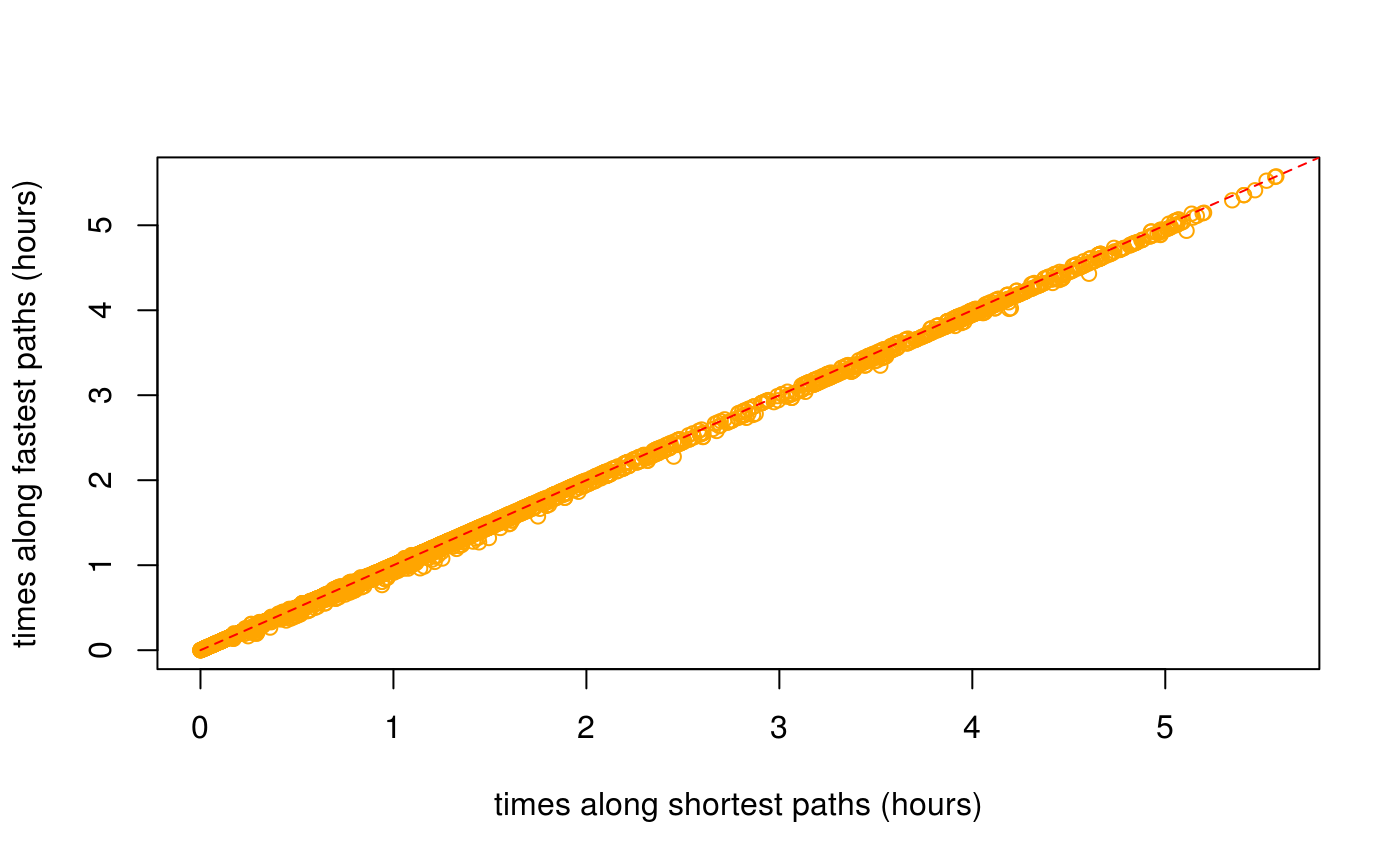
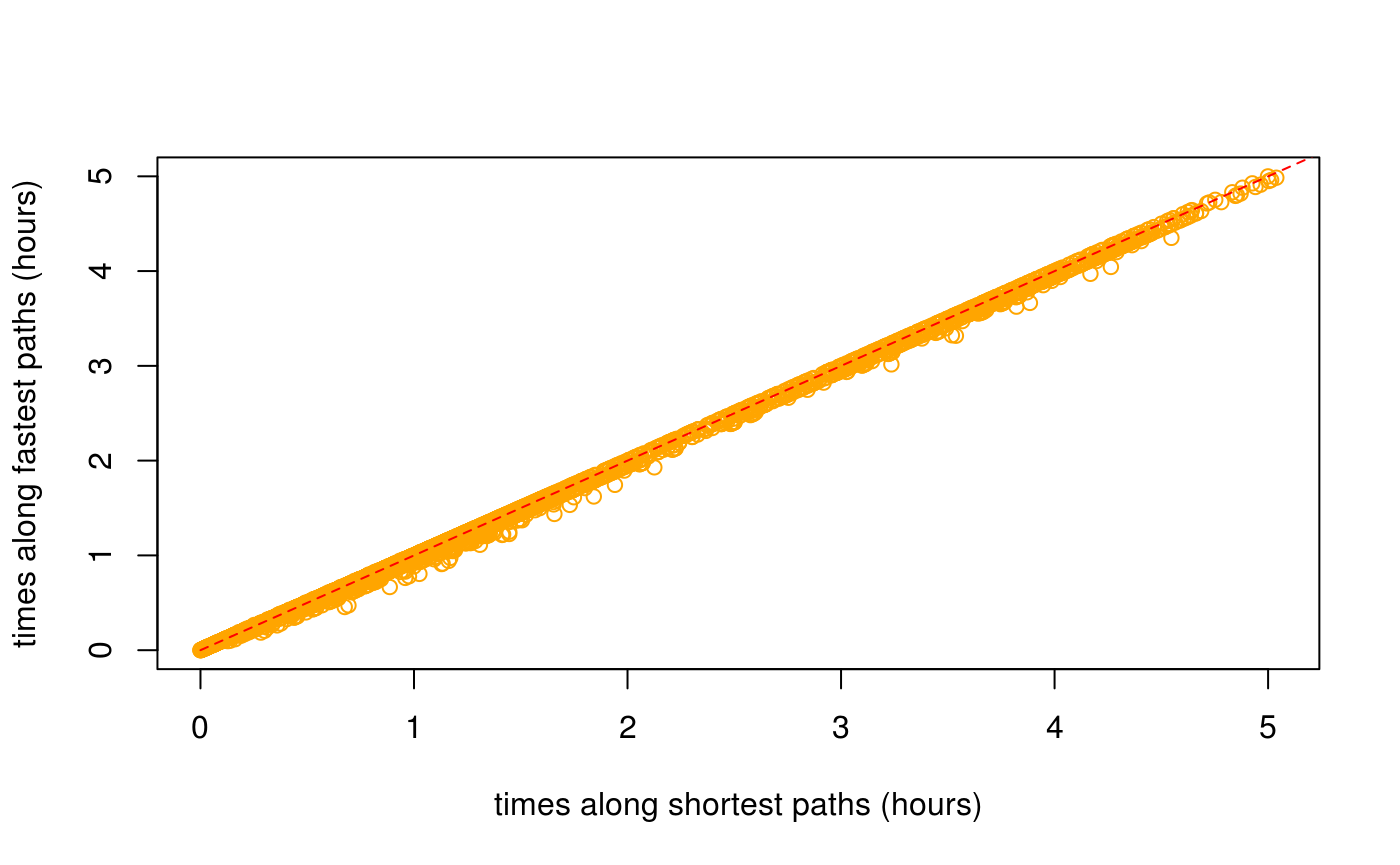
Built site for dodgr: 0.2.0.1@759fe3e

diff --git a/articles/dodgr.html b/articles/dodgr.html
@@ -343,7 +343,7 @@ Figure 2: A <strong>dual</strong>-weighted, directed graph in which the weights 
 <p>The <code>dodgr</code> packages includes a function to select a random connected portion of graph including a specified number of vertices. This function is used in the <code><a href="../reference/compare_heaps.html">compare_heaps()</a></code> function described below, but is also useful for general statistical analyses of large graphs which may otherwise take too long to compute.</p>
 <div class="sourceCode" id="cb59"><pre class="sourceCode r"><code class="sourceCode r"><a class="sourceLine" id="cb59-1" data-line-number="1">graph_sub &lt;-<span class="st"> </span><span class="kw"><a href="../reference/dodgr_sample.html">dodgr_sample</a></span> (graph, <span class="dt">nverts =</span> <span class="dv">100</span>)</a>
 <a class="sourceLine" id="cb59-2" data-line-number="2"><span class="kw"><a href="https://www.rdocumentation.org/packages/base/topics/nrow">nrow</a></span> (graph_sub)</a></code></pre></div>
-<pre><code>## [1] 217</code></pre>
+<pre><code>## [1] 197</code></pre>
 <p>The random sample has around twice as many edges as vertices, in accordance with the statistics calculated above.</p>
 <div class="sourceCode" id="cb61"><pre class="sourceCode r"><code class="sourceCode r"><a class="sourceLine" id="cb61-1" data-line-number="1"><span class="kw"><a href="https://www.rdocumentation.org/packages/base/topics/nrow">nrow</a></span> (<span class="kw"><a href="../reference/dodgr_vertices.html">dodgr_vertices</a></span> (graph_sub))</a></code></pre></div>
 <pre><code>## [1] 100</code></pre>
@@ -422,29 +422,29 @@ Figure 2: A <strong>dual</strong>-weighted, directed graph in which the weights 
 <pre><code>##                                                                                   test
 ## 12                  d &lt;- igraph::distances(igr, v = from_id, to = to_id, mode = "out")
 ## 6       d &lt;- dodgr_dists(graph_contracted, from = from_id, to = to_id, heap = "BHeap")
+## 8     d &lt;- dodgr_dists(graph_contracted, from = from_id, to = to_id, heap = "TriHeap")
 ## 9  d &lt;- dodgr_dists(graph_contracted, from = from_id, to = to_id, heap = "TriHeapExt")
+## 10     d &lt;- dodgr_dists(graph_contracted, from = from_id, to = to_id, heap = "Heap23")
 ## 11        d &lt;- dodgr_dists(graph_contracted, from = from_id, to = to_id, heap = "set")
+## 4             d &lt;- dodgr_dists(graph, from = from_id, to = to_id, heap = "TriHeapExt")
 ## 5                 d &lt;- dodgr_dists(graph, from = from_id, to = to_id, heap = "Heap23")
 ## 7       d &lt;- dodgr_dists(graph_contracted, from = from_id, to = to_id, heap = "FHeap")
-## 8     d &lt;- dodgr_dists(graph_contracted, from = from_id, to = to_id, heap = "TriHeap")
-## 10     d &lt;- dodgr_dists(graph_contracted, from = from_id, to = to_id, heap = "Heap23")
-## 4             d &lt;- dodgr_dists(graph, from = from_id, to = to_id, heap = "TriHeapExt")
-## 1                  d &lt;- dodgr_dists(graph, from = from_id, to = to_id, heap = "BHeap")
 ## 2                  d &lt;- dodgr_dists(graph, from = from_id, to = to_id, heap = "FHeap")
 ## 3                d &lt;- dodgr_dists(graph, from = from_id, to = to_id, heap = "TriHeap")
+## 1                  d &lt;- dodgr_dists(graph, from = from_id, to = to_id, heap = "BHeap")
 ##    replications elapsed relative user.self sys.self user.child sys.child
-## 12            1   0.001        1     0.004        0          0         0
-## 6             1   0.002        2     0.004        0          0         0
-## 9             1   0.002        2     0.000        0          0         0
-## 11            1   0.002        2     0.004        0          0         0
-## 5             1   0.003        3     0.004        0          0         0
-## 7             1   0.003        3     0.000        0          0         0
-## 8             1   0.003        3     0.000        0          0         0
-## 10            1   0.003        3     0.000        0          0         0
-## 4             1   0.004        4     0.004        0          0         0
-## 1             1   0.005        5     0.008        0          0         0
-## 2             1   0.005        5     0.004        0          0         0
-## 3             1   0.005        5     0.008        0          0         0</code></pre>
+## 12            1   0.002      1.0     0.000        0          0         0
+## 6             1   0.003      1.5     0.004        0          0         0
+## 8             1   0.003      1.5     0.004        0          0         0
+## 9             1   0.003      1.5     0.000        0          0         0
+## 10            1   0.003      1.5     0.004        0          0         0
+## 11            1   0.003      1.5     0.004        0          0         0
+## 4             1   0.004      2.0     0.004        0          0         0
+## 5             1   0.004      2.0     0.004        0          0         0
+## 7             1   0.004      2.0     0.004        0          0         0
+## 2             1   0.006      3.0     0.004        0          0         0
+## 3             1   0.006      3.0     0.008        0          0         0
+## 1             1   0.007      3.5     0.004        0          0         0</code></pre>
 <p>The key column of that <code>data.frame</code> is <code>relative</code>, which quantifies the relative performance of each test in relation to the best which is given a score of 1. <code>dodgr</code> using the default <code>heap = "BHeap"</code>, which is a binary heap priority queue, performs faster than <code>igraph</code> <span class="citation">(Csardi and Nepusz 2006)</span> for these graphs. Different kind of graphs will perform differently with different priority queue structures, and this function enables users to empirically discern the optimal heap for their kind of graph.</p>
 <p>Note, however, that this is not an entirely fair comparison, because <code>dodgr</code> calculates dual-weighted distances, whereas <code>igraph</code>—and indeed all other <strong>R</strong> packages—only directly calculate distances based on a single set of weights. Implementing dual-weighted routing in these cases requires explicitly re-tracing all paths and summing the second set of weights along each path. A time comparison in that case would be very strongly in favour of <code>dodgr</code>. Moreover, <code>dodgr</code> can convert graphs to contracted form through removing redundant vertices, as detailed in the following section. Doing so greatly improves performance with respect to <code>igraph</code>.</p>
 <p>For those wishing to do explicit comparisons themselves, the following code generates the <code>igraph</code> equivalent of <code><a href="../reference/dodgr_dists.html">dodgr_dists()</a></code>, although of course for single-weighted graphs only:</p>
@@ -497,11 +497,11 @@ Figure 3: <strong>(A)</strong> Vertex#2 is redundant for routing calculations fr
 <pre><code>## [1] 672</code></pre>
 <div class="sourceCode" id="cb89"><pre class="sourceCode r"><code class="sourceCode r"><a class="sourceLine" id="cb89-1" data-line-number="1">verts &lt;-<span class="st"> </span><span class="kw"><a href="https://www.rdocumentation.org/packages/base/topics/sample">sample</a></span> (<span class="kw"><a href="../reference/dodgr_vertices.html">dodgr_vertices</a></span> (graph)<span class="op">$</span>id, <span class="dt">size =</span> <span class="dv">100</span>)</a>
 <a class="sourceLine" id="cb89-2" data-line-number="2"><span class="kw"><a href="https://www.rdocumentation.org/packages/utils/topics/head">head</a></span> (verts) <span class="co"># a character vector</span></a></code></pre></div>
-<pre><code>## [1] "2627469078" "2588155767" "339574153"  "2627476984" "338907906" 
-## [6] "2398957724"</code></pre>
+<pre><code>## [1] "2627480728" "5974426275" "2588155708" "2588146052" "3921523909"
+## [6] "6161853509"</code></pre>
 <div class="sourceCode" id="cb91"><pre class="sourceCode r"><code class="sourceCode r"><a class="sourceLine" id="cb91-1" data-line-number="1">grc &lt;-<span class="st"> </span><span class="kw"><a href="../reference/dodgr_contract_graph.html">dodgr_contract_graph</a></span> (graph, verts)</a>
 <a class="sourceLine" id="cb91-2" data-line-number="2"><span class="kw"><a href="https://www.rdocumentation.org/packages/base/topics/nrow">nrow</a></span> (grc)</a></code></pre></div>
-<pre><code>## [1] 848</code></pre>
+<pre><code>## [1] 850</code></pre>
 <p>Retaining the nominated vertices yields a graph with considerably more edges than the fully contracted graph excluding these vertices. The <code><a href="../reference/dodgr_dists.html">dodgr_dists()</a></code> function can be applied to the latter graph to obtain accurate distances precisely routed between these points, yet using the speed advantages of graph contraction.</p>
 </div>
 </div>
@@ -542,53 +542,84 @@ Figure 3: <strong>(A)</strong> Vertex#2 is redundant for routing calculations fr
 <pre><code>## [1] 10</code></pre>
 <p>The result (<code>dp</code>) is a list of 10 items, each of which contains 5 vectors. An example is,</p>
 <div class="sourceCode" id="cb98"><pre class="sourceCode r"><code class="sourceCode r"><a class="sourceLine" id="cb98-1" data-line-number="1">dp [[<span class="dv">1</span>]] [[<span class="dv">1</span>]]</a></code></pre></div>
-<pre><code>##   [1] "1161117288" "1691495910" "1691495985" "677638817"  "1161117652"
-##   [6] "1161117586" "1691495982" "1161117526" "1691495952" "1691495943"
-##  [11] "1161117392" "1691495939" "1161117756" "1691495934" "1161117440"
-##  [16] "1376769146" "1161117501" "1691495929" "1161117383" "1691496079"
-##  [21] "1161117679" "677638820"  "1691496070" "1161117278" "1691496072"
-##  [26] "1691496075" "1128374463" "1161117327" "2398958044" "2398958043"
-##  [31] "2398958041" "2398958040" "677638818"  "6433630456" "1161117434"
-##  [36] "2398958010" "2398958005" "1128374490" "2398957968" "1161117636"
-##  [41] "2398957939" "1376768724" "677638819"  "1376768355" "1128374455"
-##  [46] "1376768842" "2398957896" "2398957895" "1128374434" "1376768821"
-##  [51] "677638770"  "1376768479" "1376769040" "2398957837" "2398957826"
-##  [56] "1128374394" "2398957816" "1376768691" "977461235"  "1128374418"
-##  [61] "1376768409" "1376768986" "245631194"  "1376768627" "1128374362"
-##  [66] "676875279"  "1357430213" "1161117548" "1128374360" "1376769220"
-##  [71] "1376768749" "1357430014" "1376768380" "676875276"  "1376768957"
-##  [76] "1357430113" "1376768597" "1376768325" "1161117723" "1376768899"
-##  [81] "1161117735" "1376768537" "676875308"  "1376769132" "1128374447"
-##  [86] "1376768650" "1376768293" "676875274"  "1376768867" "1161117304"
-##  [91] "1376768504" "1128374467" "1128374373" "6161027522" "1128374412"
-##  [96] "1376769190" "1128374442" "676875269"  "245631169"  "1376768805"
-## [101] "2398957722" "313796425"  "2398957720" "1376769010" "2398957713"
-## [106] "1376768565" "2398957701" "2398957696" "1128374495" "313796426" 
-## [111] "1128374399" "313796427"  "313796428"  "2398957603" "313796429" 
-## [116] "1427594112" "1376769158" "313796430"  "313796431"  "2398957567"
-## [121] "2398957563" "3338186986" "313796432"  "2398957555" "2398957554"
-## [126] "1376768773" "313796433"  "2419196948" "2398957539" "676875267" 
-## [131] "2398957521" "2398957526" "2398957532" "2398957537" "676635860" 
-## [136] "2398957542" "2398957543" "2398957544" "2398957546" "338905245" 
-## [141] "2398957549" "2398957557" "2398957561" "338905227"  "2398957564"
-## [146] "338905221"  "2398957568" "2398957570" "2398957571" "1427594104"
-## [151] "2398957576" "338905220"  "2398957584" "1376769086" "1376768510"
-## [156] "2398957588" "2398957589" "338905219"  "1376768779" "1376769164"
-## [161] "338905128"  "1427115955" "339574628"  "2398957619" "339574629" 
-## [166] "339574630"  "2398957639" "2398957654" "1148814809" "2717241324"
-## [171] "339574631"  "2398957686" "3818714155" "339574819"  "339574820" 
-## [176] "3818714154" "6228103645"</code></pre>
+<pre><code>##   [1] "677638827"  "1691496416" "677638828"  "1691496412" "1161117556"
+##   [6] "1691496409" "677638825"  "1691496407" "1691496375" "1691496404"
+##  [11] "1691496406" "1691496372" "1691495745" "1691496367" "677638829" 
+##  [16] "1161117413" "1161117358" "1161117772" "1691496364" "1691496190"
+##  [21] "677638821"  "1691496086" "1161117473" "1161117620" "1691496081"
+##  [26] "676875383"  "1691495727" "677638822"  "677638823"  "1691495723"
+##  [31] "1691495720" "1691495717" "1161117349" "1691495698" "245631502" 
+##  [36] "1691495696" "1161117543" "1691495693" "1691495680" "1691495677"
+##  [41] "1161117452" "1691495672" "1161117302" "1691495665" "1691495937"
+##  [46] "1161117663" "1691496251" "1691496243" "1161117704" "1691496247"
+##  [51] "1691496237" "1161117404" "1691496236" "1691496204" "1161117288"
+##  [56] "1691495910" "1691495985" "677638817"  "1161117652" "1161117586"
+##  [61] "1691495982" "1161117526" "1691495952" "1691495943" "1161117392"
+##  [66] "1691495939" "1161117756" "1691495934" "1161117440" "1376769146"
+##  [71] "1161117501" "1691495929" "1161117383" "1691496079" "1161117679"
+##  [76] "677638820"  "1691496070" "1161117278" "1691496072" "1691496075"
+##  [81] "1128374463" "1161117327" "2398958044" "2398958043" "2398958041"
+##  [86] "2398958040" "677638818"  "6433630456" "1161117434" "2398958010"
+##  [91] "2398958005" "1128374490" "2398957968" "1161117636" "2398957939"
+##  [96] "1376768724" "677638819"  "1376768355" "1128374455" "1376768842"
+## [101] "2398957896" "2398957895" "1128374434" "1376768821" "677638770" 
+## [106] "1376768479" "1376769040" "2398957837" "2398957826" "1128374394"
+## [111] "2398957816" "1376768691" "977461235"  "1128374418" "1376768409"
+## [116] "1376768986" "245631194"  "1376768627" "1128374362" "676875279" 
+## [121] "1357430213" "1161117548" "1128374360" "1376769220" "1376768749"
+## [126] "1357430014" "1376768380" "676875276"  "1376768957" "1357430113"
+## [131] "1376768597" "1376768325" "1161117723" "1376768899" "1161117735"
+## [136] "1376768537" "676875308"  "1376769132" "1128374447" "1376768650"
+## [141] "1376768293" "676875274"  "1376768867" "1161117304" "1376768504"
+## [146] "1128374467" "1128374373" "6161027522" "1128374412" "1376769190"
+## [151] "1128374442" "676875269"  "245631169"  "1376768805" "2398957722"
+## [156] "313796425"  "2398957720" "1376769010" "2398957713" "1376768565"
+## [161] "2398957701" "2398957696" "1128374495" "313796426"  "1128374399"
+## [166] "313796427"  "313796428"  "2398957603" "313796429"  "1427594112"
+## [171] "1376769158" "313796430"  "313796431"  "2398957567" "2398957563"
+## [176] "3338186986" "313796432"  "2398957555" "2398957554" "1376768773"
+## [181] "313796433"  "2419196948" "2398957539" "676875267"  "2398957521"
+## [186] "2398957526" "2398957532" "2398957537" "676635860"  "2398957542"
+## [191] "2398957543" "2398957544" "2398957546" "338905245"  "2398957549"
+## [196] "2398957557" "2398957561" "338905227"  "2398957564" "338905221" 
+## [201] "2398957568" "2398957570" "2398957571" "1427594104" "2398957576"
+## [206] "338905220"  "2398957584" "1376769086" "1376768510" "2398957588"
+## [211] "2398957589" "338905219"  "1376768779" "1376769164" "338905128" 
+## [216] "2398957593" "1376768571" "2398957595" "338905105"  "338905103" 
+## [221] "338905101"  "2398957611" "1427115973" "2398957612" "2398957616"
+## [226] "338905098"  "2398957623" "338905039"  "2398957626" "1427115977"
+## [231] "338905037"  "2398957627" "1427115981" "2398957629" "1427115983"
+## [236] "338905036"  "1148814692" "2398957641" "2398957665" "676875127" 
+## [241] "2398957674" "2398957680" "338905033"  "1148814852" "1148815109"
+## [246] "339577292"  "338905032"  "1376768330" "1376768904" "2398957715"
+## [251] "2398957716" "1376768543" "1376769137" "1376768847" "1376768484"
+## [256] "1376769045" "4506481428" "1376768697" "1376769196" "6414886574"
+## [261] "1376768817" "1376768447" "6414886575" "1376769017" "6414886576"
+## [266] "1376768754" "6414886577" "1376768386" "1376768961" "6414886578"
+## [271] "1376768601" "5351820954" "1376769087" "5974503432" "1376768725"
+## [276] "5351820955" "1376768356" "5974503433" "5351820956" "5974503434"
+## [281] "1376768931" "5974503435" "1376768660" "1376768299" "1376768873"
+## [286] "5974503436" "1376768511" "5974503437" "2398957668" "2398957682"
+## [291] "1427116026" "2398957694" "2398957702" "2398957704" "338512648" 
+## [296] "2398957707" "2398957710" "2398957712" "2398957714" "2398957724"
+## [301] "676635816"  "2398957727" "2398957730" "2398957733" "286632882" 
+## [306] "2398957736" "1390214413" "2398957740" "286632883"  "2398957746"
+## [311] "2398957747" "2588146032" "2588146091" "2588146120" "2588146042"
+## [316] "2588146050" "2588146081" "2588146089" "2588146101" "2588146103"
+## [321] "2588146098" "2588146125" "2588146020" "2588146127" "2588146068"
+## [326] "5351820916" "5351820918" "5351820917" "2588146079" "2588146028"
+## [331] "2588146077" "2588146096" "2588146109" "2588146070" "2588146136"</code></pre>
 <p>For spatial graphs, the coordinates of these paths can be obtained by extracting the vertices with <code><a href="../reference/dodgr_vertices.html">dodgr_vertices()</a></code> and matching the vertex IDs:</p>
 <div class="sourceCode" id="cb100"><pre class="sourceCode r"><code class="sourceCode r"><a class="sourceLine" id="cb100-1" data-line-number="1">verts &lt;-<span class="st"> </span><span class="kw"><a href="../reference/dodgr_vertices.html">dodgr_vertices</a></span> (graph)</a>
 <a class="sourceLine" id="cb100-2" data-line-number="2">path1 &lt;-<span class="st"> </span>verts [<span class="kw"><a href="https://www.rdocumentation.org/packages/base/topics/match">match</a></span> (dp [[<span class="dv">1</span>]] [[<span class="dv">1</span>]], verts<span class="op">$</span>id), ]</a>
 <a class="sourceLine" id="cb100-3" data-line-number="3"><span class="kw"><a href="https://www.rdocumentation.org/packages/utils/topics/head">head</a></span> (path1)</a></code></pre></div>
-<pre><code>##             id        x        y component   n
-## 954 1161117288 76.53647 15.35966         1 489
-## 952 1691495910 76.53651 15.35948         1 488
-## 950 1691495985 76.53648 15.35923         1 487
-## 948  677638817 76.53564 15.35450         1 486
-## 946 1161117652 76.53545 15.35413         1 485
-## 944 1161117586 76.53436 15.35328         1 484</code></pre>
+<pre><code>##              id        x        y component   n
+## 1062  677638827 76.56849 15.37158         1 543
+## 1060 1691496416 76.56687 15.37020         1 542
+## 1058  677638828 76.56654 15.37002         1 541
+## 1056 1691496412 76.56625 15.36997         1 540
+## 1054 1161117556 76.56413 15.36961         1 539
+## 1052 1691496409 76.56219 15.36903         1 538</code></pre>
 <p>Paths calculated on contracted graphs will of course have fewer vertices than those calculated on full graphs.</p>
 </div>
 <div id="aggregated-flows" class="section level1">
@@ -632,7 +663,7 @@ Figure 3: <strong>(A)</strong> Vertex#2 is redundant for routing calculations fr
 <p>Most flows are zero because they have only been calculated between very few points in the graph.</p>
 <div class="sourceCode" id="cb105"><pre class="sourceCode r"><code class="sourceCode r"><a class="sourceLine" id="cb105-1" data-line-number="1"><span class="kw"><a href="https://www.rdocumentation.org/packages/base/topics/summary">summary</a></span> (graph_f<span class="op">$</span>flow)</a></code></pre></div>
 <pre><code>##    Min. 1st Qu.  Median    Mean 3rd Qu.    Max. 
-##   0.000   0.000   0.000   6.596   0.000  76.794</code></pre>
+##   0.000   0.000   0.000   6.784   0.000 125.435</code></pre>
 </div>
 <div id="flow-dispersal" class="section level2">
 <h2 class="hasAnchor">
@@ -642,7 +673,7 @@ Figure 3: <strong>(A)</strong> Vertex#2 is redundant for routing calculations fr
 <a class="sourceLine" id="cb107-2" data-line-number="2">graph_f &lt;-<span class="st"> </span><span class="kw"><a href="../reference/dodgr_flows_disperse.html">dodgr_flows_disperse</a></span> (graph, <span class="dt">from =</span> from, <span class="dt">dens =</span> dens)</a>
 <a class="sourceLine" id="cb107-3" data-line-number="3"><span class="kw"><a href="https://www.rdocumentation.org/packages/base/topics/summary">summary</a></span> (graph_f<span class="op">$</span>flow)</a></code></pre></div>
 <pre><code>##      Min.   1st Qu.    Median      Mean   3rd Qu.      Max. 
-## 0.000e+00 0.000e+00 0.000e+00 1.962e-05 0.000e+00 6.476e-02</code></pre>
+## 0.000e+00 0.000e+00 0.000e+00 4.593e-06 0.000e+00 8.736e-03</code></pre>
 </div>
 <div id="merging-directed-flows" class="section level2">
 <h2 class="hasAnchor">
@@ -652,7 +683,7 @@ Figure 3: <strong>(A)</strong> Vertex#2 is redundant for routing calculations fr
 <p>Resultant graphs produced by <code><a href="../reference/merge_directed_flows.html">merge_directed_flows()</a></code> only include those edges having non-zero flows, and so:</p>
 <div class="sourceCode" id="cb110"><pre class="sourceCode r"><code class="sourceCode r"><a class="sourceLine" id="cb110-1" data-line-number="1"><span class="kw"><a href="https://www.rdocumentation.org/packages/base/topics/nrow">nrow</a></span> (graph_f); <span class="kw"><a href="https://www.rdocumentation.org/packages/base/topics/nrow">nrow</a></span> (graph_undir) <span class="co"># the latter is much smaller</span></a></code></pre></div>
 <pre><code>## [1] 5973</code></pre>
-<pre><code>## [1] 1577</code></pre>
+<pre><code>## [1] 1526</code></pre>
 <p>The resultant graph can readily be merged with the original graph to regain the original data on vertex coordinates through</p>
 <div class="sourceCode" id="cb113"><pre class="sourceCode r"><code class="sourceCode r"><a class="sourceLine" id="cb113-1" data-line-number="1">graph &lt;-<span class="st"> </span>graph [graph_undir<span class="op">$</span>edge_id, ]</a>
 <a class="sourceLine" id="cb113-2" data-line-number="2">graph<span class="op">$</span>flow &lt;-<span class="st"> </span>graph_undir<span class="op">$</span>flow</a></code></pre></div>

diff --git a/articles/times.html b/articles/times.html
@@ -227,11 +227,11 @@ Figure 1: Graph modification to account for turn penalties, which introduces the
 <p><img src="times_files/figure-html/shortest-vs-fastest-1.png" width="700"></p>
 <p>The average distance between the two (in metres) is:</p>
 <div class="sourceCode" id="cb9"><pre class="sourceCode r"><code class="sourceCode r"><a class="sourceLine" id="cb9-1" data-line-number="1"><span class="kw"><a href="https://www.rdocumentation.org/packages/base/topics/mean">mean</a></span> (<span class="kw"><a href="https://www.rdocumentation.org/packages/base/topics/MathFun">abs</a></span> (d_time <span class="op">-</span><span class="st"> </span>d_dist), <span class="dt">na.rm =</span> <span class="ot">TRUE</span>)</a></code></pre></div>
-<pre><code>## [1] 44.98134</code></pre>
+<pre><code>## [1] 50.79222</code></pre>
 <p>The plot reveals that shortest distances are indeed somewhat shorter than distances along fastest paths, but also that some fastest paths are actually shorter than shortest paths:</p>
 <div class="sourceCode" id="cb11"><pre class="sourceCode r"><code class="sourceCode r"><a class="sourceLine" id="cb11-1" data-line-number="1">index &lt;-<span class="st"> </span><span class="kw"><a href="https://www.rdocumentation.org/packages/base/topics/which">which</a></span> (<span class="op">!</span><span class="kw"><a href="https://www.rdocumentation.org/packages/base/topics/NA">is.na</a></span> (d_time) <span class="op">&amp;</span><span class="st"> </span><span class="op">!</span><span class="kw"><a href="https://www.rdocumentation.org/packages/base/topics/NA">is.na</a></span> (d_dist))</a>
 <a class="sourceLine" id="cb11-2" data-line-number="2"><span class="kw"><a href="https://www.rdocumentation.org/packages/base/topics/length">length</a></span> (<span class="kw"><a href="https://www.rdocumentation.org/packages/base/topics/which">which</a></span> (d_time [index] <span class="op">&lt;</span><span class="st"> </span>d_dist [index])) <span class="op">/</span><span class="st"> </span><span class="kw"><a href="https://www.rdocumentation.org/packages/base/topics/length">length</a></span> (index)</a></code></pre></div>
-<pre><code>## [1] 0.01536156</code></pre>
+<pre><code>## [1] 0.02190722</code></pre>
 <p>While <code>dodgr</code> and indeed all routing engines attempt to maximally reconcile differences between fastest and shortest routes, there nevertheless remain important discrepancies. Foremost among these, and the primary reason why some fastest routes may in fact be shorter than shortest routes, is that fastest routes allocate preferences for different kinds of way based both on the <code>value</code> column in the <code>weighting_profiles$weighting_profiles</code> table illustrated above, and on the actual maximum speed of a given edge, which itself may be a combination of maximum speeds as specified in OSM itself, maximum speeds from the <code>weighting_profiles$weighting_profiles</code> table, or values specific to a given surface. The result is that some unique combination of maximum speeds along a network may lead to <em>fastest</em> routes being preferentially directed along a path that is actually shorter than the direct shortest path which is calculated independent of maximum speed values.</p>
 <p>Such discrepancies are important in understanding differences in routes <em>times</em> calculated along shortest versus fastest paths. These times can be calculated (in seconds) with the <a href="https://atfutures.github.io/dodgr/reference/dodgr_times.html"><code><a href="../reference/dodgr_times.html">dodgr_times()</a></code></a> function:</p>
 <div class="sourceCode" id="cb13"><pre class="sourceCode r"><code class="sourceCode r"><a class="sourceLine" id="cb13-1" data-line-number="1">t_dist &lt;-<span class="st"> </span><span class="kw"><a href="../reference/dodgr_times.html">dodgr_times</a></span> (graph, <span class="dt">from =</span> from, <span class="dt">to =</span> to, <span class="dt">shortest =</span> <span class="ot">TRUE</span>) <span class="co"># default</span></a>
@@ -242,11 +242,11 @@ Figure 1: Graph modification to account for turn penalties, which introduces the
 <a class="sourceLine" id="cb13-6" data-line-number="6"><span class="kw"><a href="https://www.rdocumentation.org/packages/graphics/topics/lines">lines</a></span> (<span class="dv">0</span><span class="op">:</span><span class="dv">100</span>, <span class="dv">0</span><span class="op">:</span><span class="dv">100</span>, <span class="dt">col =</span> <span class="st">"red"</span>, <span class="dt">lty =</span> <span class="dv">2</span>)</a></code></pre></div>
 <p><img src="times_files/figure-html/shortest-vs-fastest-times-1.png" width="700"></p>
 <div class="sourceCode" id="cb14"><pre class="sourceCode r"><code class="sourceCode r"><a class="sourceLine" id="cb14-1" data-line-number="1"><span class="kw"><a href="https://www.rdocumentation.org/packages/base/topics/mean">mean</a></span> (<span class="kw"><a href="https://www.rdocumentation.org/packages/base/topics/MathFun">abs</a></span> (t_time <span class="op">-</span><span class="st"> </span>t_dist), <span class="dt">na.rm =</span> <span class="ot">TRUE</span>)</a></code></pre></div>
-<pre><code>## [1] 42.60897</code></pre>
+<pre><code>## [1] 54.31491</code></pre>
 <p>As above, times along fastest paths are generally less than times along shortest paths, although there are again a few exceptions:</p>
 <div class="sourceCode" id="cb16"><pre class="sourceCode r"><code class="sourceCode r"><a class="sourceLine" id="cb16-1" data-line-number="1">index &lt;-<span class="st"> </span><span class="kw"><a href="https://www.rdocumentation.org/packages/base/topics/which">which</a></span> (<span class="op">!</span><span class="kw"><a href="https://www.rdocumentation.org/packages/base/topics/NA">is.na</a></span> (t_time) <span class="op">&amp;</span><span class="st"> </span><span class="op">!</span><span class="kw"><a href="https://www.rdocumentation.org/packages/base/topics/NA">is.na</a></span> (t_dist))</a>
 <a class="sourceLine" id="cb16-2" data-line-number="2"><span class="kw"><a href="https://www.rdocumentation.org/packages/base/topics/length">length</a></span> (<span class="kw"><a href="https://www.rdocumentation.org/packages/base/topics/which">which</a></span> (t_dist [index] <span class="op">&lt;</span><span class="st"> </span>t_time [index])) <span class="op">/</span><span class="st"> </span><span class="kw"><a href="https://www.rdocumentation.org/packages/base/topics/length">length</a></span> (index)</a></code></pre></div>
-<pre><code>## [1] 0.02379168</code></pre>
+<pre><code>## [1] 0.006811487</code></pre>
 <p>These results demonstrate how the combination of the <a href="https://atfutures.github.io/dodgr/reference/dodgr_distances.html"><code><a href="../reference/dodgr_distances.html">dodgr_distances()</a></code></a> and <a href="https://atfutures.github.io/dodgr/reference/dodgr_times.html"><code><a href="../reference/dodgr_times.html">dodgr_times()</a></code></a> functions enable calculation of both distances and times along both shortest and fastest paths.</p>
 <div id="time-based-paths-and-flow-aggregation" class="section level2">
 <h2 class="hasAnchor">

diff --git a/reference/compare_heaps.html b/reference/compare_heaps.html
@@ -158,8 +158,8 @@ fair comparisons, run only once or re-start the current R session.</p>
 #&gt; 10     d &lt;- dodgr_dists(graph_contracted, from = from_id, to = to_id, heap = "Heap23")
 #&gt; 11        d &lt;- dodgr_dists(graph_contracted, from = from_id, to = to_id, heap = "set")
 #&gt; 7       d &lt;- dodgr_dists(graph_contracted, from = from_id, to = to_id, heap = "FHeap")
-#&gt; 9  d &lt;- dodgr_dists(graph_contracted, from = from_id, to = to_id, heap = "TriHeapExt")
 #&gt; 8     d &lt;- dodgr_dists(graph_contracted, from = from_id, to = to_id, heap = "TriHeap")
+#&gt; 9  d &lt;- dodgr_dists(graph_contracted, from = from_id, to = to_id, heap = "TriHeapExt")
 #&gt; 12                  d &lt;- igraph::distances(igr, v = from_id, to = to_id, mode = "out")
 #&gt; 1                  d &lt;- dodgr_dists(graph, from = from_id, to = to_id, heap = "BHeap")
 #&gt; 2                  d &lt;- dodgr_dists(graph, from = from_id, to = to_id, heap = "FHeap")
@@ -167,18 +167,18 @@ fair comparisons, run only once or re-start the current R session.</p>
 #&gt; 5                 d &lt;- dodgr_dists(graph, from = from_id, to = to_id, heap = "Heap23")
 #&gt; 4             d &lt;- dodgr_dists(graph, from = from_id, to = to_id, heap = "TriHeapExt")
 #&gt;    replications elapsed relative user.self sys.self user.child sys.child
-#&gt; 6             1   0.007    1.000     0.012        0          0         0
-#&gt; 10            1   0.008    1.143     0.012        0          0         0
-#&gt; 11            1   0.008    1.143     0.008        0          0         0
-#&gt; 7             1   0.009    1.286     0.012        0          0         0
-#&gt; 9             1   0.009    1.286     0.012        0          0         0
-#&gt; 8             1   0.010    1.429     0.016        0          0         0
-#&gt; 12            1   0.019    2.714     0.016        0          0         0
-#&gt; 1             1   0.031    4.429     0.056        0          0         0
-#&gt; 2             1   0.041    5.857     0.072        0          0         0
-#&gt; 3             1   0.041    5.857     0.072        0          0         0
-#&gt; 5             1   0.042    6.000     0.072        0          0         0
-#&gt; 4             1   0.046    6.571     0.048        0          0         0</div></pre>
+#&gt; 6             1   0.006    1.000     0.008    0.000          0         0
+#&gt; 10            1   0.006    1.000     0.008    0.004          0         0
+#&gt; 11            1   0.006    1.000     0.008    0.000          0         0
+#&gt; 7             1   0.007    1.167     0.008    0.000          0         0
+#&gt; 8             1   0.007    1.167     0.012    0.000          0         0
+#&gt; 9             1   0.007    1.167     0.008    0.000          0         0
+#&gt; 12            1   0.015    2.500     0.016    0.000          0         0
+#&gt; 1             1   0.032    5.333     0.052    0.000          0         0
+#&gt; 2             1   0.033    5.500     0.056    0.000          0         0
+#&gt; 3             1   0.034    5.667     0.060    0.000          0         0
+#&gt; 5             1   0.035    5.833     0.060    0.000          0         0
+#&gt; 4             1   0.037    6.167     0.036    0.000          0         0</div></pre>
   </div>
   <div class="col-md-3 hidden-xs hidden-sm" id="sidebar">
     <h2>Contents</h2>

diff --git a/reference/dodgr_sample.html b/reference/dodgr_sample.html
@@ -141,7 +141,7 @@ the requested <code>nverts</code>.</p>
     <h2 class="hasAnchor" id="examples"><a class="anchor" href="#examples"></a>Examples</h2>
     <pre class="examples"><div class='input'><span class='no'>graph</span> <span class='kw'>&lt;-</span> <span class='fu'><a href='weight_streetnet.html'>weight_streetnet</a></span> (<span class='no'>hampi</span>)
 <span class='fu'><a href='https://www.rdocumentation.org/packages/base/topics/nrow'>nrow</a></span> (<span class='no'>graph</span>) <span class='co'># 5,742</span></div><div class='output co'>#&gt; [1] 5973</div><div class='input'><span class='no'>graph</span> <span class='kw'>&lt;-</span> <span class='fu'>dodgr_sample</span> (<span class='no'>graph</span>, <span class='kw'>nverts</span> <span class='kw'>=</span> <span class='fl'>200</span>)
-<span class='fu'><a href='https://www.rdocumentation.org/packages/base/topics/nrow'>nrow</a></span> (<span class='no'>graph</span>) <span class='co'># generally around 400 edges</span></div><div class='output co'>#&gt; [1] 397</div><div class='input'><span class='fu'><a href='https://www.rdocumentation.org/packages/base/topics/nrow'>nrow</a></span> (<span class='fu'><a href='dodgr_vertices.html'>dodgr_vertices</a></span> (<span class='no'>graph</span>)) <span class='co'># 200</span></div><div class='output co'>#&gt; [1] 200</div></pre>
+<span class='fu'><a href='https://www.rdocumentation.org/packages/base/topics/nrow'>nrow</a></span> (<span class='no'>graph</span>) <span class='co'># generally around 400 edges</span></div><div class='output co'>#&gt; [1] 401</div><div class='input'><span class='fu'><a href='https://www.rdocumentation.org/packages/base/topics/nrow'>nrow</a></span> (<span class='fu'><a href='dodgr_vertices.html'>dodgr_vertices</a></span> (<span class='no'>graph</span>)) <span class='co'># 200</span></div><div class='output co'>#&gt; [1] 200</div></pre>
   </div>
   <div class="col-md-3 hidden-xs hidden-sm" id="sidebar">
     <h2>Contents</h2>

diff --git a/index.html b/index.html
@@ -511,7 +511,7 @@
 <td align="right">1</td>
 <td align="right">95.358362</td>
 <td align="right">119.197952</td>
-<td align="right">20.06372</td>
+<td align="right">0</td>
 </tr>
 <tr class="even">
 <td align="right">1</td>
@@ -529,7 +529,7 @@
 <td align="right">1</td>
 <td align="right">95.358362</td>
 <td align="right">119.197952</td>
-<td align="right">0.00000</td>
+<td align="right">0</td>
 </tr>
 <tr class="odd">
 <td align="right">1</td>
@@ -547,7 +547,7 @@
 <td align="right">1</td>
 <td align="right">6.399843</td>
 <td align="right">7.999803</td>
-<td align="right">20.06372</td>
+<td align="right">0</td>
 </tr>
 <tr class="even">
 <td align="right">1</td>
@@ -565,7 +565,7 @@
 <td align="right">1</td>
 <td align="right">6.399843</td>
 <td align="right">7.999803</td>
-<td align="right">0.00000</td>
+<td align="right">0</td>
 </tr>
 <tr class="odd">
 <td align="right">1</td>
@@ -583,7 +583,7 @@
 <td align="right">1</td>
 <td align="right">6.715106</td>
 <td align="right">8.393882</td>
-<td align="right">20.06372</td>
+<td align="right">0</td>
 </tr>
 <tr class="even">
 <td align="right">1</td>
@@ -601,7 +601,7 @@
 <td align="right">1</td>
 <td align="right">6.715106</td>
 <td align="right">8.393882</td>
-<td align="right">0.00000</td>
+<td align="right">0</td>
 </tr>
 </tbody>
 </table>
